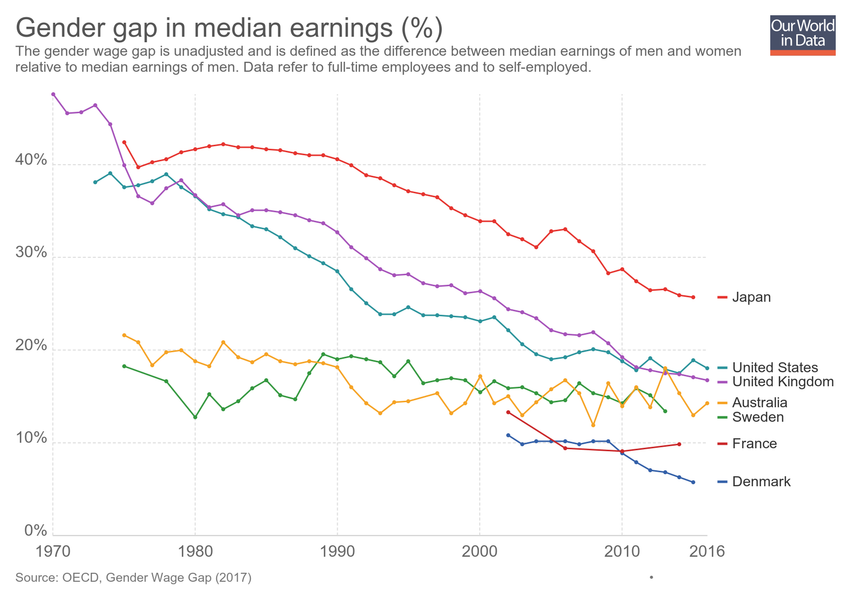
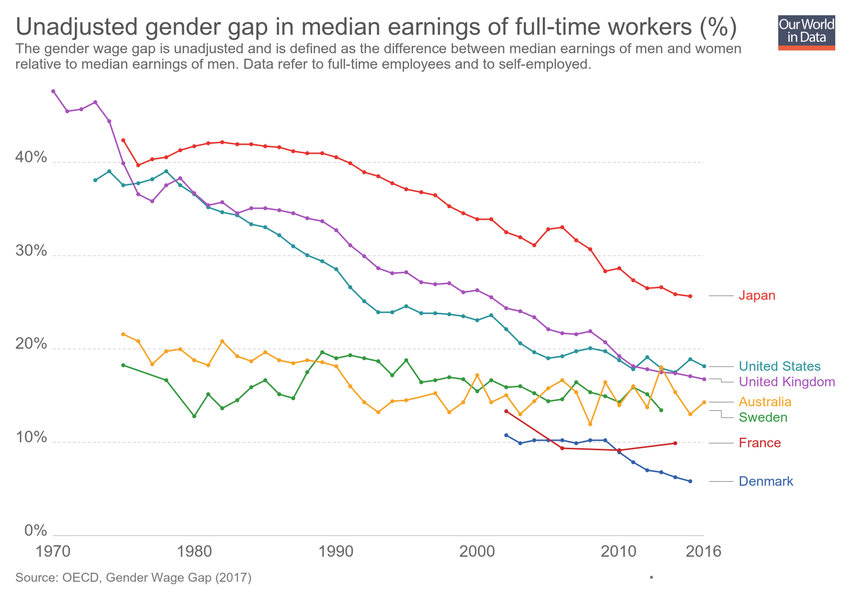
Updating chart gender-wage-gap-oecd

diff --git a/grapher/gender-wage-gap-oecd.html b/grapher/gender-wage-gap-oecd.html
@@ -1,4 +1,4 @@
-<!doctype html><html><head><meta name="viewport" content="width=device-width, initial-scale=1" /><title>Unadjusted gender gap in median earnings of full-time workers (%) - Our World in Data</title><meta name="description" content="The gender wage gap is unadjusted and is defined as the difference between median earnings of men and women relative to median earnings of men. Data refer to full-time employees and to self-employed." /><link rel="canonical" href="https://ourworldindata.org/grapher/gender-wage-gap-oecd" /><meta property="fb:app_id" content="1149943818390250" /><meta property="og:url" content="https://ourworldindata.org/grapher/gender-wage-gap-oecd" /><meta property="og:title" content="Unadjusted gender gap in median earnings of full-time workers (%)" /><meta property="og:description" content="The gender wage gap is unadjusted and is defined as the difference between median earnings of men and women relative to median earnings of men. Data refer to full-time employees and to self-employed." /><meta property="og:image" content="https://ourworldindata.org/grapher/exports/gender-wage-gap-oecd.png?v=3" /><meta property="og:image:width" content="850" /><meta property="og:image:height" content="600" /><meta property="og:site_name" content="Our World in Data" /><meta name="twitter:card" content="summary_large_image" /><meta name="twitter:site" content="@OurWorldInData" /><meta name="twitter:creator" content="@OurWorldInData" /><meta name="twitter:title" content="Unadjusted gender gap in median earnings of full-time workers (%)" /><meta name="twitter:description" content="The gender wage gap is unadjusted and is defined as the difference between median earnings of men and women relative to median earnings of men. Data refer to full-time employees and to self-employed." /><meta name="twitter:image" content="https://ourworldindata.org/grapher/exports/gender-wage-gap-oecd.png?v=3" /><style>
+<!doctype html><html><head><meta name="viewport" content="width=device-width, initial-scale=1" /><title>Unadjusted gender gap in median earnings of full-time workers (%) - Our World in Data</title><meta name="description" content="The gender wage gap is unadjusted and is defined as the difference between median earnings of men and women relative to median earnings of men. Data refer to full-time employees and to self-employed." /><link rel="canonical" href="https://ourworldindata.org/grapher/gender-wage-gap-oecd" /><meta property="fb:app_id" content="1149943818390250" /><meta property="og:url" content="https://ourworldindata.org/grapher/gender-wage-gap-oecd" /><meta property="og:title" content="Unadjusted gender gap in median earnings of full-time workers (%)" /><meta property="og:description" content="The gender wage gap is unadjusted and is defined as the difference between median earnings of men and women relative to median earnings of men. Data refer to full-time employees and to self-employed." /><meta property="og:image" content="https://ourworldindata.org/grapher/exports/gender-wage-gap-oecd.png?v=4" /><meta property="og:image:width" content="850" /><meta property="og:image:height" content="600" /><meta property="og:site_name" content="Our World in Data" /><meta name="twitter:card" content="summary_large_image" /><meta name="twitter:site" content="@OurWorldInData" /><meta name="twitter:creator" content="@OurWorldInData" /><meta name="twitter:title" content="Unadjusted gender gap in median earnings of full-time workers (%)" /><meta name="twitter:description" content="The gender wage gap is unadjusted and is defined as the difference between median earnings of men and women relative to median earnings of men. Data refer to full-time employees and to self-employed." /><meta name="twitter:image" content="https://ourworldindata.org/grapher/exports/gender-wage-gap-oecd.png?v=4" /><style>
         html, body {
             height: 100%;
             margin: 0;
@@ -20,8 +20,8 @@
         }
     </style><noscript><style>
                     figure { display: none !important; }
-                </style></noscript><link rel="stylesheet" href="https://ourworldindata.org/grapher/assets/commons.bundle.62f8703dfc964fd3975c.css" /><link rel="preload" href="/grapher/data/variables/42880.json?v=3" as="fetch" crossorigin /></head><body class="singleChart"><figure data-grapher-src="/grapher/gender-wage-gap-oecd"></figure><noscript id="fallback"><img src="/grapher/exports/gender-wage-gap-oecd.svg" /><p>Interactive visualization requires JavaScript</p></noscript><script src="https://cdn.polyfill.io/v2/polyfill.min.js?features=es6,fetch"></script><script src="https://ourworldindata.org/grapher/assets/commons.bundle.62f8703dfc964fd3975c.js"></script><script src="https://ourworldindata.org/grapher/assets/charts.bundle.dcf65b68eddaba4c6a58.js"></script><script>
-        var jsonConfig = {"id":1454,"map":{"projection":"World","colorSchemeLabels":[],"colorSchemeValues":[],"defaultProjection":"World","colorSchemeMinValue":0,"customNumericColors":[],"customCategoryColors":{},"customCategoryLabels":{},"customHiddenCategories":{}},"tab":"chart","slug":"gender-wage-gap-oecd","type":"LineChart","title":"Unadjusted gender gap in median earnings of full-time workers (%)","xAxis":{"scaleType":"linear"},"yAxis":{"min":0,"scaleType":"linear"},"minTime":1970,"version":3,"subtitle":"The gender wage gap is unadjusted and is defined as the difference between median earnings of men and women relative to median earnings of men. Data refer to full-time employees and to self-employed.","hasMapTab":false,"originUrl":"","stackMode":"absolute","dimensions":[{"display":{"name":"The gender wage gap"},"property":"y","variableId":42880}],"hasChartTab":true,"isPublished":true,"selectedData":[{"index":0,"entityId":13},{"index":0,"entityId":1},{"index":0,"entityId":10},{"index":0,"entityId":161},{"index":0,"entityId":3},{"index":0,"entityId":23},{"index":0,"entityId":14}],"internalNotes":"","addCountryMode":"add-country"};
+                </style></noscript><link rel="stylesheet" href="https://ourworldindata.org/grapher/assets/commons.bundle.62f8703dfc964fd3975c.css" /><link rel="preload" href="/grapher/data/variables/42880.json?v=4" as="fetch" crossorigin /></head><body class="singleChart"><figure data-grapher-src="/grapher/gender-wage-gap-oecd"></figure><noscript id="fallback"><img src="/grapher/exports/gender-wage-gap-oecd.svg" /><p>Interactive visualization requires JavaScript</p></noscript><script src="https://cdn.polyfill.io/v2/polyfill.min.js?features=es6,fetch"></script><script src="https://ourworldindata.org/grapher/assets/commons.bundle.62f8703dfc964fd3975c.js"></script><script src="https://ourworldindata.org/grapher/assets/charts.bundle.dcf65b68eddaba4c6a58.js"></script><script>
+        var jsonConfig = {"id":1454,"map":{"projection":"World","targetYear":2016,"variableId":42880,"timeTolerance":2,"baseColorScheme":"OrRd","isManualBuckets":true,"colorSchemeLabels":[],"colorSchemeValues":[0,10,20,30,40],"customColorsActive":true,"colorSchemeMinValue":-10,"customNumericColors":["#7ec7ce",null,null,null,null],"customCategoryColors":{},"customCategoryLabels":{},"customHiddenCategories":{}},"tab":"chart","slug":"gender-wage-gap-oecd","type":"LineChart","title":"Unadjusted gender gap in median earnings of full-time workers (%)","xAxis":{"scaleType":"linear"},"yAxis":{"min":0,"scaleType":"linear"},"version":4,"subtitle":"The gender wage gap is unadjusted and is defined as the difference between median earnings of men and women relative to median earnings of men. Data refer to full-time employees and to self-employed.","hasMapTab":true,"originUrl":"","stackMode":"absolute","dimensions":[{"display":{"name":"The gender wage gap"},"property":"y","variableId":42880}],"hasChartTab":true,"isPublished":true,"selectedData":[{"index":0,"entityId":13},{"index":0,"entityId":1},{"index":0,"entityId":10},{"index":0,"entityId":161},{"index":0,"entityId":3},{"index":0,"entityId":23},{"index":0,"entityId":14}],"internalNotes":"","addCountryMode":"add-country"};
         var figure = document.getElementsByTagName("figure")[0];
         try {
             window.App = {};
